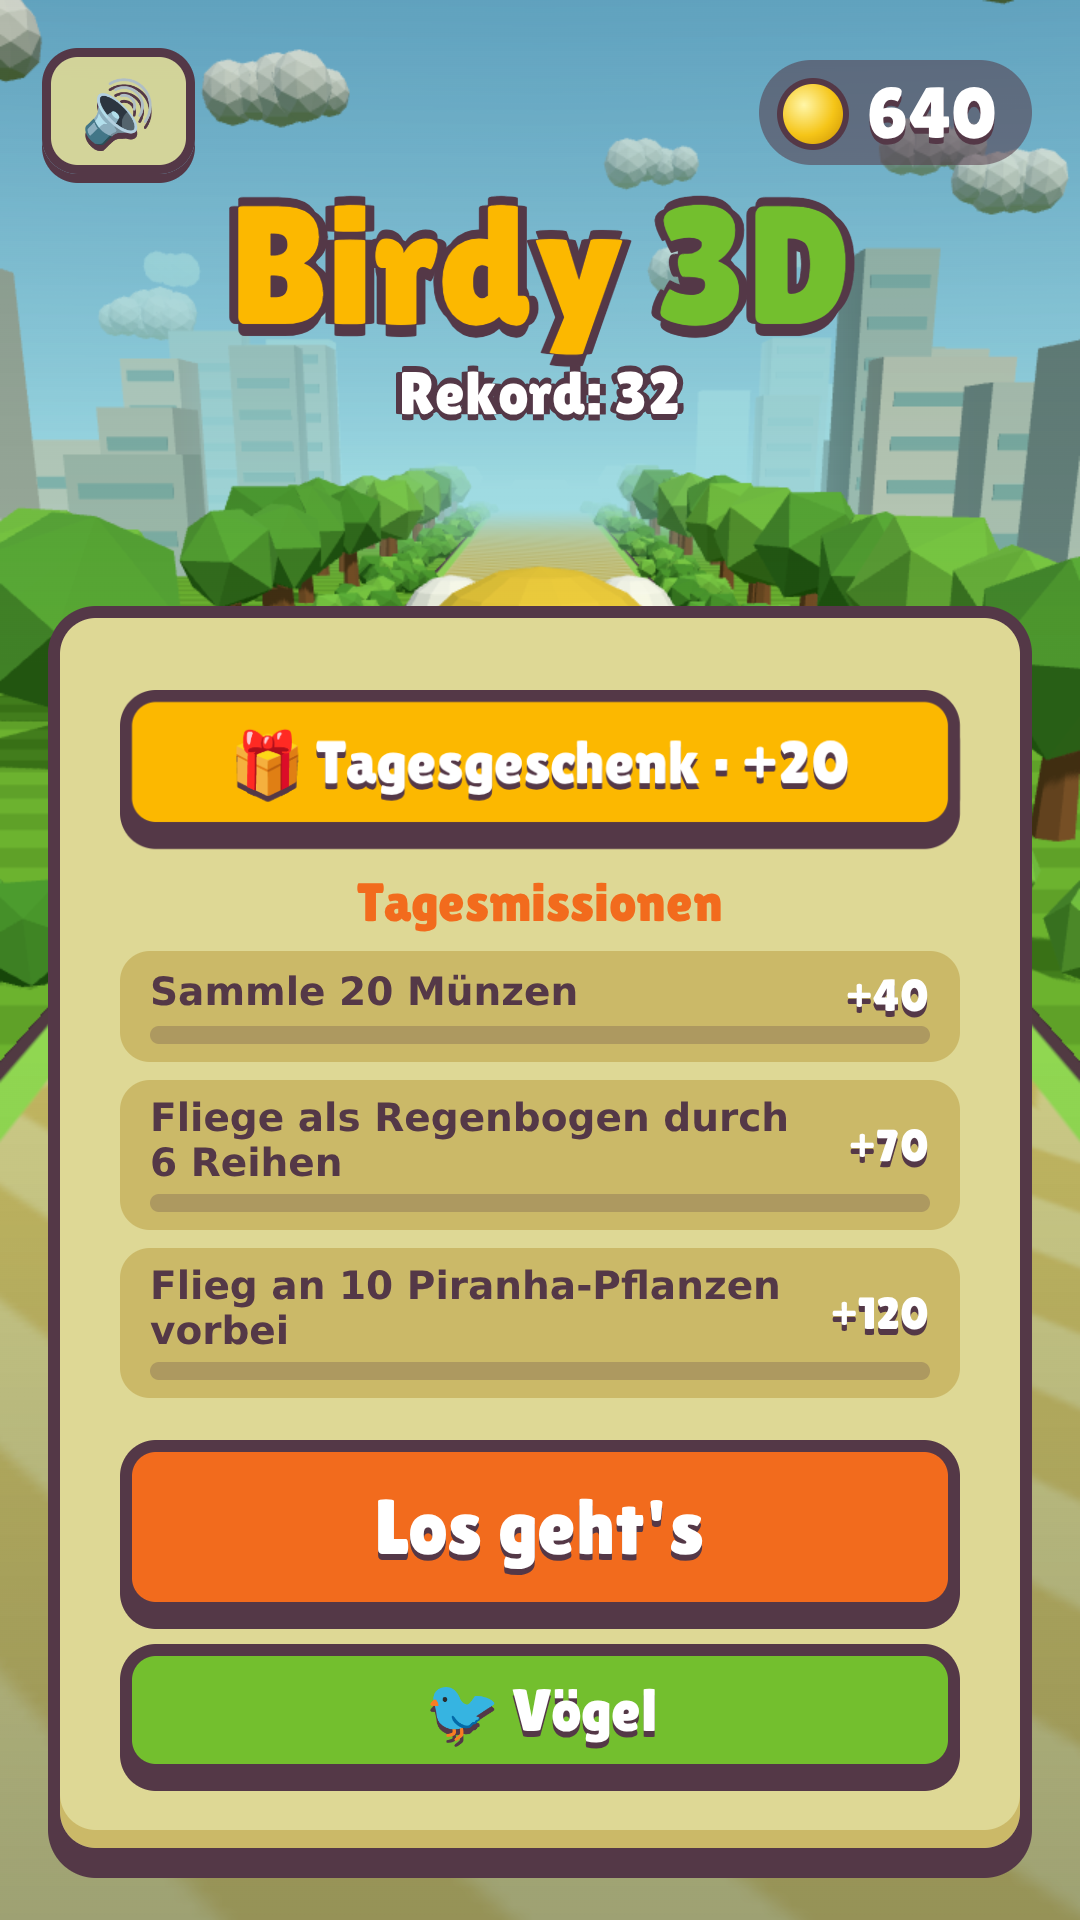
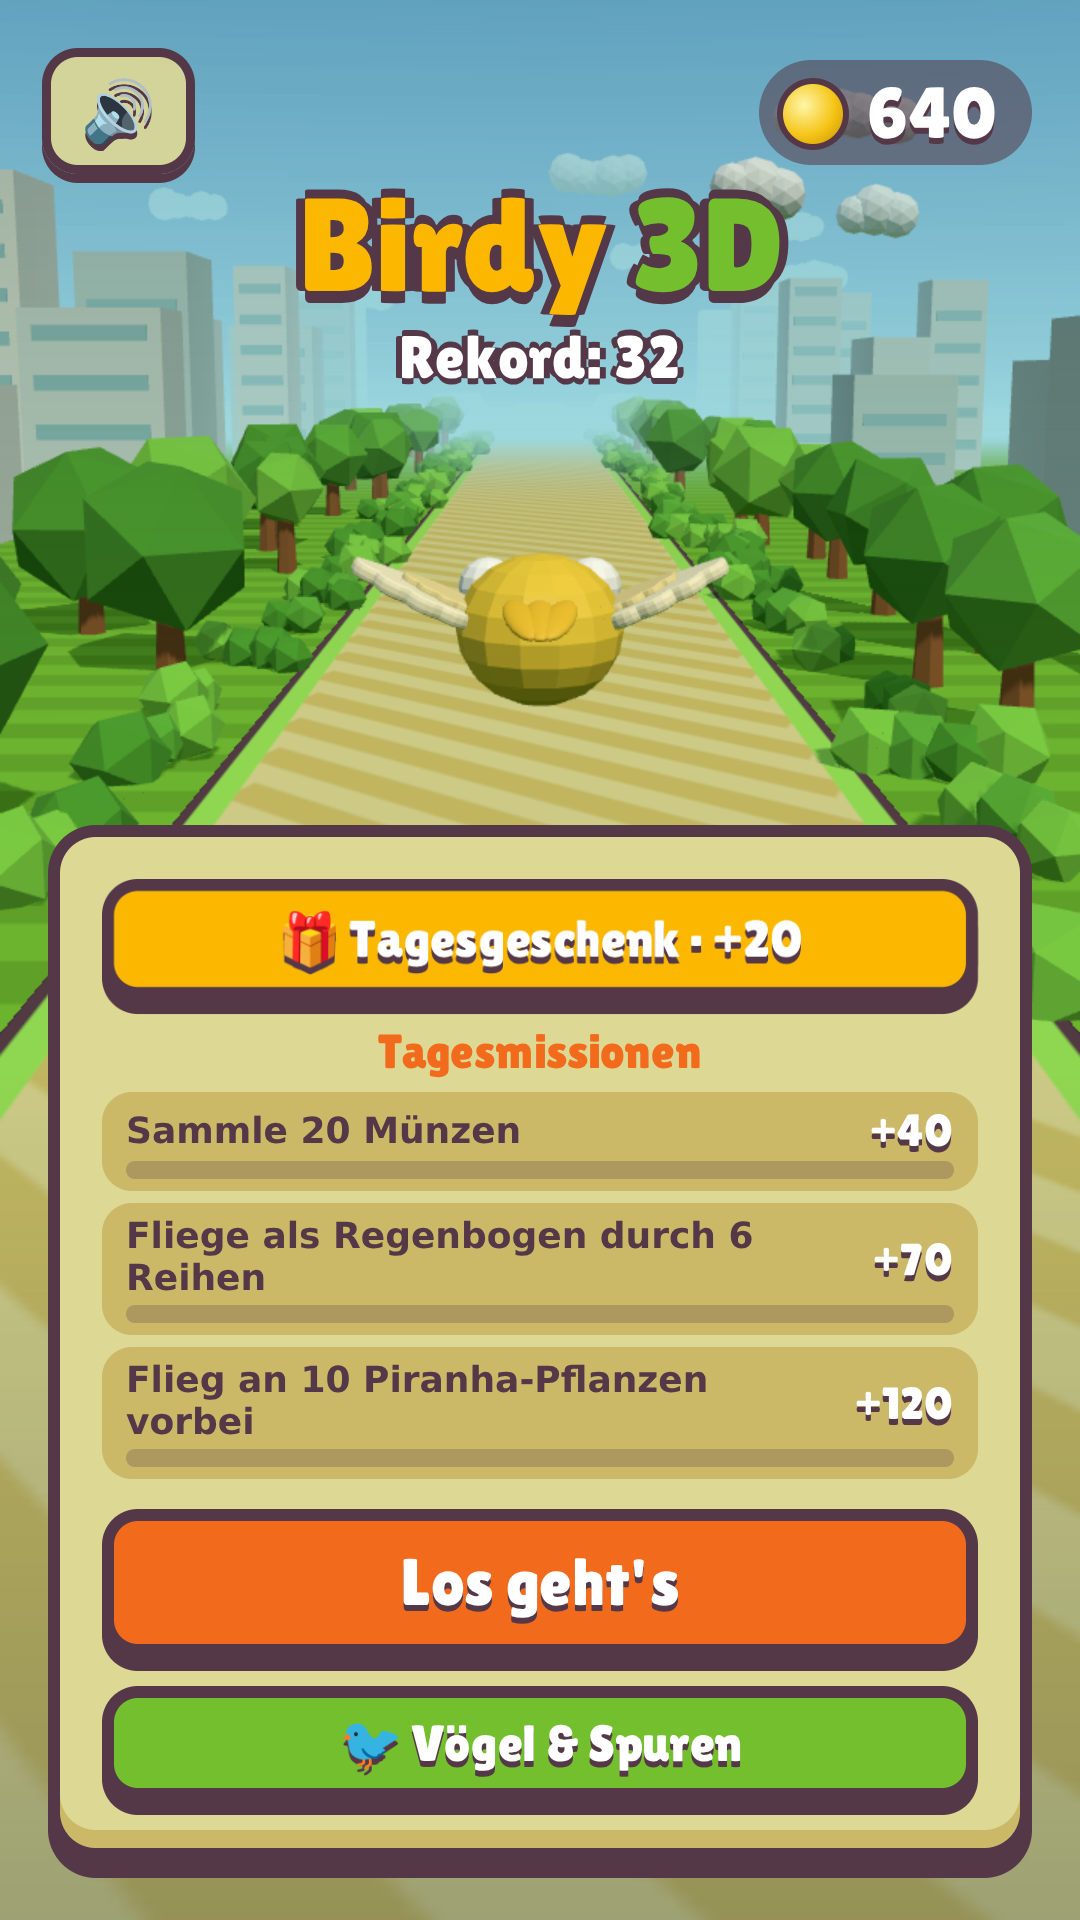
Frame the bird in menus on every screen and reshoot store screenshots
- Menus measure the free space between title and panel and shift the
  view (setViewOffset) so the bird sits there, pulling back when space is
  tight; compact menus on short screens (bird was hidden on 360x640)
- Store screenshots come from one real run (no HUD edits): zone banner,
  piranha plant, rainbow, trails shop
- Final report with before/after scorecard and a human test plan

Claude-Session: https://claude.ai/code/session_01UegktUYTvuFjsNWpC94uUS

diff --git a/src/main.js b/src/main.js
@@ -1308,16 +1308,17 @@ const camTarget = new THREE.Vector3();
 const camLook = new THREE.Vector3();
 const camLookCur = new THREE.Vector3(0, 0.5, -9.5);
 function updateCamera(dt) {
+  const menuFrame = state.mode === 'ready' ? measureMenuFrame() : null;
   if (state.mode === 'ready' && state.menu === 'shop') {
-    // Shop: look the bird in the face so the skin preview is visible above
-    // the panel.
-    const far = baseFov < 70 ? 1.2 : 1; // narrower lens on wider screens
+    // Shop: side view of the bird, pulled back when little space is free.
+    const far = menuFrame.far * (baseFov < 70 ? 1.15 : 1);
     camTarget.set(5.6 * far, state.y + 0.9, -2.1 * far);
-    camLook.set(0, state.y - 1.2, 0);
+    camLook.set(0, state.y - 0.3, 0);
   } else if (state.mode === 'ready') {
-    // Start menu: closer, bird centred between title and panel.
-    camTarget.set(0, state.y + 1.2, 6.5);
-    camLook.set(0, state.y - 4.5, -9.5);
+    // Start menu: behind the bird, pulled back when little space is free.
+    const far = menuFrame.far;
+    camTarget.set(0, state.y + 1.2 * far, 6.5 * far);
+    camLook.set(0, state.y - 0.6, -9.5);
   } else {
     // Camera sits above and behind the bird so it stays in the lower third
     // and the gaps ahead remain visible (Temple Run / Subway Surfers style).
@@ -1334,12 +1335,51 @@ function updateCamera(dt) {
     camera.position.y += (Math.random() - 0.5) * s;
   }
   camera.lookAt(camLookCur);
+  frameBird(menuFrame);
   // Speed kick: the view widens while the rainbow boost is active.
   const fov = baseFov + (state.mode === 'playing' && state.power.star > 0 ? 8 : 0);
   if (Math.abs(camera.fov - fov) > 0.05) {
     camera.fov = THREE.MathUtils.lerp(camera.fov, fov, Math.min(1, dt * 4));
     camera.updateProjectionMatrix();
   }
+}
+
+// Menus: find the free space between the title and the panel so the bird
+// is framed there on every screen size (small phones included).
+function measureMenuFrame() {
+  const wrap = state.menu === 'shop' ? shopEl : startEl;
+  const title = wrap.querySelector('.menu-title');
+  const panel = wrap.querySelector('.panel');
+  const box = app.getBoundingClientRect();
+  if (!title || !panel || !box.height) return { center: 0.4, far: 1 };
+  const top = title.getBoundingClientRect().bottom - box.top;
+  const bottom = panel.getBoundingClientRect().top - box.top;
+  const free = Math.max(0.12, (bottom - top) / box.height);
+  return { center: (top + bottom) / 2 / box.height, far: THREE.MathUtils.clamp(0.4 / free, 1, 2.4) };
+}
+
+// Shift the rendered view so the bird sits at the free-space centre.
+let viewShift = 0;
+function frameBird(frame) {
+  if (!frame) {
+    // Leaving the menu: ease the shift back to zero instead of jumping.
+    if (viewShift === 0) return;
+    viewShift = THREE.MathUtils.lerp(viewShift, 0, 0.15);
+    if (Math.abs(viewShift) < 0.5) {
+      viewShift = 0;
+      camera.clearViewOffset();
+    } else {
+      camera.setViewOffset(app.clientWidth, app.clientHeight, 0, viewShift, app.clientWidth, app.clientHeight);
+    }
+    return;
+  }
+  camera.clearViewOffset();
+  camera.updateMatrixWorld();
+  tmpProj.set(state.x, state.y, 0).project(camera);
+  const h = app.clientHeight;
+  const want = ((1 - tmpProj.y) / 2 - frame.center) * h;
+  viewShift = THREE.MathUtils.lerp(viewShift, want, 0.25);
+  camera.setViewOffset(app.clientWidth, h, 0, viewShift, app.clientWidth, h);
 }
 
 let baseFov = 68;
@@ -1494,4 +1534,4 @@ async function simulate({ runs = 50, bot: botOpts = {}, maxTime = 240 } = {}) {
 }
 
 // Expose a tiny hook for automated smoke tests.
-window.__birdy = { state, gates, pickups, activatePower, simulate, renderer, progress, enterZone, renderMusic, handleBack, openShop, camera };
+window.__birdy = { state, gates, pickups, coins, activatePower, simulate, renderer, progress, enterZone, renderMusic, handleBack, openShop, camera };

diff --git a/src/style.css b/src/style.css
@@ -569,3 +569,17 @@ button.gift {
 .next-unlock .bar i { display: block; height: 100%; background: #fff; }
 #gameover .missions { margin-bottom: 12px; }
 .next-unlock.ready { cursor: pointer; animation: pulse 0.9s infinite alternate; }
+
+/* Short screens: tighter menus so the bird stays visible. */
+@media (max-height: 720px) {
+  .menu-title h1 { font-size: 44px; }
+  .panel { padding: 14px 14px 16px; }
+  .missions { gap: 4px; margin-bottom: 10px; }
+  .missions h3 { font-size: 16px; }
+  .mission { padding: 4px 8px; font-size: 12px; }
+  button.gift { font-size: 17px; padding: 6px 12px; margin-bottom: 8px; }
+  #play-btn { font-size: 22px; padding: 8px 20px; }
+  button.secondary { font-size: 17px; padding: 5px 16px; }
+  .skins { gap: 6px; margin-bottom: 10px; }
+  .tabs { margin-bottom: 8px; }
+}

diff --git a/docs/PROGRESS.md b/docs/PROGRESS.md
@@ -23,18 +23,17 @@ Die Noten sind nach Review 3 (nach Iteration 12) korrigiert; überhöhte Werte w
 | 1 | Onboarding | 7 | Geführter erster Run mit Geister-Hand und Einfrieren, per E2E-Test belegt. Offen: Test mit Menschen. |
 | 2 | Game Feel / Juice | 6 | Hit-Stop, Stretch, „Knapp!“, Vibration, Flugspuren. Aber: Die oberen Röhren füllen 40–50 % des Bildes, das Tempo ist kaum spürbar. |
 | 3 | Fairness & Kurve | 7 | Profi-Bot erreicht in über 90 % der Runs das Zeitlimit, Erreichbarkeit ist garantiert. Tiefenwahrnehmung von Menschen ungeprüft. |
-| 4 | Abwechslung | 7 | 4 Zonen alle 10 Reihen, jede mit eigener Szenerie, Tageszeit, Musik und Spezialität. Bot-Messung: Zone 2 erreichen 47 % der Anfänger (vorher 15 %); Geübte erreichen Zone 3 zu 59 % (vorher 26 %), Zone 4 zu 23 % (vorher 1 %). Die Szenerie steht beim Banner (Screenshot). |
+| 4 | Abwechslung | 7 | 4 Zonen alle 10 Reihen, jede mit eigener Szenerie, Tageszeit, Musik und Spezialität. Bot-Messung (zwei Läufe à 100 Runs): Zone 2 erreichen 33–47 % der Anfänger (vorher 15 %); Geübte erreichen Zone 3 zu 59–63 % (vorher 26 %), Zone 4 zu 23–25 % (vorher 1 %). Die Szenerie steht beim Banner (Screenshot). |
 | 5 | Session-Loop | 8 | 0,8 s vom Crash zum nächsten Run. Game-Over zeigt das nächste Ziel (Münzen bis zum nächsten Vogel oder zur nächsten Spur; wenn freischaltbar, führt ein Tipp direkt in den Shop), alle Tagesmissionen mit Balken und die erreichte Zone. „🏆 Neuer Rekord!“ erscheint schon während des Runs. |
 | 6 | Meta-Progression | 6 | 7 Vogel-Farben und 7 Flugspuren (zwei Kategorien, Reiter im Shop, Live-Vorschau), Missionen, Tagesgeschenk. Fehlt: nächstes Ziel sichtbar machen. |
 | 7 | Audio | 5 | 4 Zonen-Themen, Menü-Modus, Pegel gemessen. Nur Oszillator-Klänge, von keinem Menschen gehört. |
 | 8 | Performance | 5 | 162 Draw Calls, 50k Dreiecke, erster Frame 0,79 s (Headless), adaptive Qualität. Auf keinem Gerät gemessen. |
-| 9 | Politur | 5 | Münzen golden, Zielringe blenden vor der Kamera aus, Shop-Kacheln mit Preis. Aber: Das Menü-Panel verdeckt den Vogel, die Shop-Kamera ist auf manchen Displays zu nah. |
-| 10 | Store-Reife | 5 | AAB signierbar, Texte, Datenschutz, Icon. Aber: Die Screenshots zeigen keine Mechaniken (Pflanzen, Power-ups, „Knapp!“), und die Zonen-Bilder sind inszeniert. Offen: App-ID (deine Entscheidung). |
+| 9 | Politur | 6 | Münzen golden, Zielringe blenden vor der Kamera aus, Shop-Kacheln mit Preis, Menü und Shop rahmen den Vogel auf jeder Displaygröße (360×640 und 390×844 geprüft). Offen: Die oberen Röhren nehmen viel Bildfläche ein (bewusst belassen, siehe Iteration 15). |
+| 10 | Store-Reife | 6 | AAB signierbar, Texte DE/EN, Datenschutz, eigenständiges Icon, Zurück-Taste. 6 Screenshots aus einem echten Run ohne HUD-Manipulation (Zonen-Banner, Piranha-Pflanze, Regenbogen, Spuren-Shop). Offen: App-ID und Schlüssel (deine Entscheidung). |
 
 ## Backlog (nach Hebel sortiert)
 
-1. **Bildaufteilung:** Menü-Panel und Vogel, Shop-Kamera je nach Seitenverhältnis, Höhe der oberen Röhren.
-2. **Store-Screenshots mit Mechaniken,** ohne Inszenierung.
+Ab hier braucht es echte Geräte und echte Spieler, siehe Abschlussbericht.
 
 ## Review 1 (nach Iteration 3) – Publisher-Subagent
 
@@ -543,3 +542,110 @@ Rechte-Risiko; es war ausdrücklich „wie Mario“ gewünscht, deshalb ändere 
 Die Schwierigkeit bleibt dabei gleich, die Überlebenszeiten sind praktisch unverändert.
 Screenshots: Beim Banner „Zone 2 · Herbstwald“ steht der Herbstwald schon komplett. Der
 Game-Over-Screen zeigt Rekord, Zone, nächstes Ziel und Missionen. Keine Fehler.
+
+### Iteration 15 – Bildaufteilung und ehrliche Store-Screenshots (Review-3-Punkt 3)
+
+**Was:**
+- **Menü und Shop rahmen den Vogel auf jedem Display:**
+  - Die Kamera misst den freien Platz zwischen Titel und Panel, verschiebt den Bildausschnitt
+    (`setViewOffset`), damit der Vogel genau dort sitzt, und geht bei wenig Platz weiter zurück.
+  - Beim Spielstart gleitet die Verschiebung weich zurück.
+  - Auf niedrigen Displays (bis 720 px Höhe) sind die Menüs kompakter.
+  - Vorher war der Vogel auf 360×640 im Menü und im Shop komplett verdeckt.
+- **Store-Screenshots aus einem echten Run:**
+  - Punkte und Münzen sind echt. Ein Autopilot mit Unverwundbarkeits-Flag (nur für Tests) hält
+    den Vogel am Leben, und das Skript wartet, bis die Szenen wirklich eintreten.
+  - Motive: Menü, Park, Herbstwald-Banner bei 10 Punkten, ausgefahrene Piranha-Pflanze (bei 45 Punkten),
+    Regenbogen, Spuren-Shop mit Konfetti-Vorschau.
+- **Bewusst nicht geändert:** die Höhe der oberen Röhren. Kürzere Röhren würden in der Ferne als
+  schwebende Enden im Himmel sichtbar. Eine andere Kamera würde den Look verändern, den du
+  ausdrücklich behalten wolltest.
+
+**Beleg:**
+- Screenshots für Menü und Shop auf 360×640 und 390×844: Der Vogel ist jeweils zwischen Titel
+  und Panel sichtbar.
+- Regressionen ohne Fehler: Perf 165 Draw Calls, Bot-Playtest, Tutorial-E2E-Test (relative Tipps
+  mit Bildverschiebung).
+
+---
+
+## Abschlussbericht (Stopp: 15 Iterationen erreicht)
+
+**Das Ziel „alle Bereiche ≥ 8 mit Belegen“ ist nicht erreicht.** Erreicht ist: ein spielbares,
+messbar faireres und deutlich reicheres Spiel, das für einen internen Test über die Play Console
+bereit ist. Die übrigen Lücken lassen sich nur mit echten Geräten und Menschen schließen.
+
+### Bewertungsbogen vorher → nachher
+
+„Vorher“ ist der Stand vor Iteration 1, nach den Korrekturen durch Review 1.
+
+| # | Bereich | vorher | nachher | Was fehlt noch zur 8 |
+|---|---|---|---|---|
+| 1 | Onboarding | 4 | **7** | Test mit 5–10 Erstspielern: Verstehen sie die Regeln ohne Hilfe? |
+| 2 | Game Feel / Juice | 4 | **6** | Auf dem Gerät fühlen (Vibration, Hit-Stop). Die oberen Röhren dominieren das Bild. |
+| 3 | Fairness & Kurve | 5 | **7** | Todesursachen echter Spieler; Tiefenwahrnehmung. |
+| 4 | Abwechslung | 3 | **7** | Mehr Mechaniken nach der 4. Zone; Bestätigung durch echte Spieler. |
+| 5 | Session-Loop | 5 | **8** | – |
+| 6 | Meta-Progression | 1 | **6** | Erfolge und Langzeitziele; die Ökonomie mit echten Daten tunen. |
+| 7 | Audio | 3 | **5** | Von Menschen gehört? Eventuell echte Samples oder Instrumente. |
+| 8 | Performance | 3 | **5** | fps auf einem Mittelklasse-Android messen (Anzeige: 5× auf den Titel tippen). |
+| 9 | Politur | 5 | **6** | Feinschliff nach Gerätetest. |
+| 10 | Store-Reife | 1 | **6** | App-ID, eigener Schlüssel, Datenschutz-URL, Pflanzen-Design (Rechte). |
+
+### Endmessung (Stand nach Iteration 15)
+
+**Bot-Playtest, 100 Runs je Bot, 150 s Limit:**
+
+| Bot | Überlebenszeit Median | 10 % der Runs enden vor … | Punkte Median | Münzen/Run | Zone 2 / 3 / 4 erreicht |
+|---|---|---|---|---|---|
+| Anfänger | 14,5 s | 9,9 s | 7 | 7 | 33 % / 1 % / 0 % |
+| Geübt | 40,2 s | 21,9 s | 23 | 26 | 100 % / 63 % / 25 % |
+| Profi | 88 % der Runs bis zum Limit | 136,9 s | 117 | 116 | 100 % / 100 % / 99 % |
+
+Der Anfänger-Bot streut zwischen Messungen um etwa ±3 s und ±15 Prozentpunkte. Kleine
+Unterschiede sind also Rauschen.
+
+**Render-Budget:** 162 Draw Calls, 49k Dreiecke, erster Frame nach 0,83 s (Headless-Software-GPU).
+
+**Konsolenfehler:** keine, in allen Testskripten.
+
+### Die 5 wichtigsten Änderungen
+
+1. **Fairness per Konstruktion:**
+   - Jede Reihe ist von der vorherigen aus erreichbar, der Abstand zwischen Reihen ist zeitbasiert.
+   - Profi-Bot: vorher starb er in 100 % der Runs, jetzt überlebt er rund 90 % der 150-s-Runs.
+2. **Steuerung relativ zum Vogel plus Zielring:**
+   - Modellierte Fehltipps sinken von 13,4 % auf 0,5 %.
+   - Der Spurwechsel ist nur ein kleiner Hüpfer, dazu kommt der geführte erste Run.
+3. **4 Zonen mit eigener Szenerie, Tageszeit, Musik und Mechanik:**
+   - Der Münz-Rausch leitet jede Zone ein.
+   - Geübte Spieler erreichen Zone 4 jetzt in 23 % statt 1 % der Runs.
+4. **Meta-Schleife:**
+   - Münzen, 7 Vögel und 7 Spuren.
+   - Tagesmissionen passend zum Niveau, Tagesgeschenk mit Serie.
+   - Game-Over mit nächstem Ziel.
+5. **Performance und Store:**
+   - 892 → 165 Draw Calls, adaptive Qualität.
+   - Signierbares AAB, Zurück-Taste, eigenständiges Icon, Store-Paket.
+
+### Was nur echte Spieler und Geräte klären können – Testplan
+
+1. **Geräte-Test (1 Tag, ihr drei):**
+   - Debug-APK auf 3 Handys installieren: eines alt, eines Mittelklasse, eines neu.
+   - Je 10 Minuten spielen, dabei die fps-Anzeige einschalten (5× auf den Titel tippen).
+   - Ziel: stabile ~60 fps auf der Mittelklasse, keine automatische Qualitätsstufe unter Q2.
+   - Außerdem prüfen: Vibration, Ton, Zurück-Taste, Pause beim App-Wechsel.
+2. **Erstspieler-Test (5–10 Personen, die das Spiel nicht kennen):**
+   - Wortlos das Handy geben, nur zuschauen und notieren:
+     - Verstehen sie Flattern und Ausweichen im Tutorial?
+     - Woran sterben sie? Lesen sie den Zielring?
+     - Spielen sie freiwillig eine zweite Runde?
+   - Ziel: 8 von 10 schaffen das Tutorial ohne Hilfe, und der Median des ersten Runs liegt
+     über 20 s.
+3. **Interner Test-Track (Play Console, 20–50 Personen, 2 Wochen):**
+   - Vorher App-ID festlegen und Schlüssel erzeugen (`docs/STORE.md`).
+   - Da die App bewusst kein Tracking hat, D1- und D7-Rückkehr per kurzer Umfrage oder
+     über die Play-Console-Statistik („Aktive Nutzer“) abschätzen.
+   - Richtwerte für Casual-Top-Titel: D1 ≥ 35–40 %, D7 ≥ 12–15 %.
+4. **Danach tunen:** Tempo und Lückengröße (`gateSpec()` und `baseSpeed()` in `src/main.js`)
+   und die Münz-Ökonomie (`progress.js`) anhand der Beobachtungen anpassen.

diff --git a/docs/STORE.md b/docs/STORE.md
@@ -14,7 +14,7 @@ brauchst du die Entscheidungen unten.
 | Offline, keine Werbung, keine Käufe, kein Tracking | ✅ |
 | App-Icon 512×512 | ✅ `docs/store/icon-512.png` (eigenständig: Vogel von vorn im Zielring) |
 | Feature-Grafik 1024×500 | ✅ `docs/store/feature-1024x500.png` |
-| Screenshots 1080×1920 | ✅ `docs/store/screenshot-1…6` (aus echten Spielszenen, `scripts/store-shots.mjs`) |
+| Screenshots 1080×1920 | ✅ `docs/store/screenshot-1…6` aus einem echten Run (`scripts/store-shots.mjs`): Menü, Park, Zonen-Banner, Piranha-Pflanze, Regenbogen, Spuren-Shop |
 | Store-Texte DE/EN | ✅ unten |
 | Datenschutzerklärung | ✅ Text unten; muss unter einer öffentlichen URL liegen |
 | Angaben zur Datensicherheit | ✅ unten |
